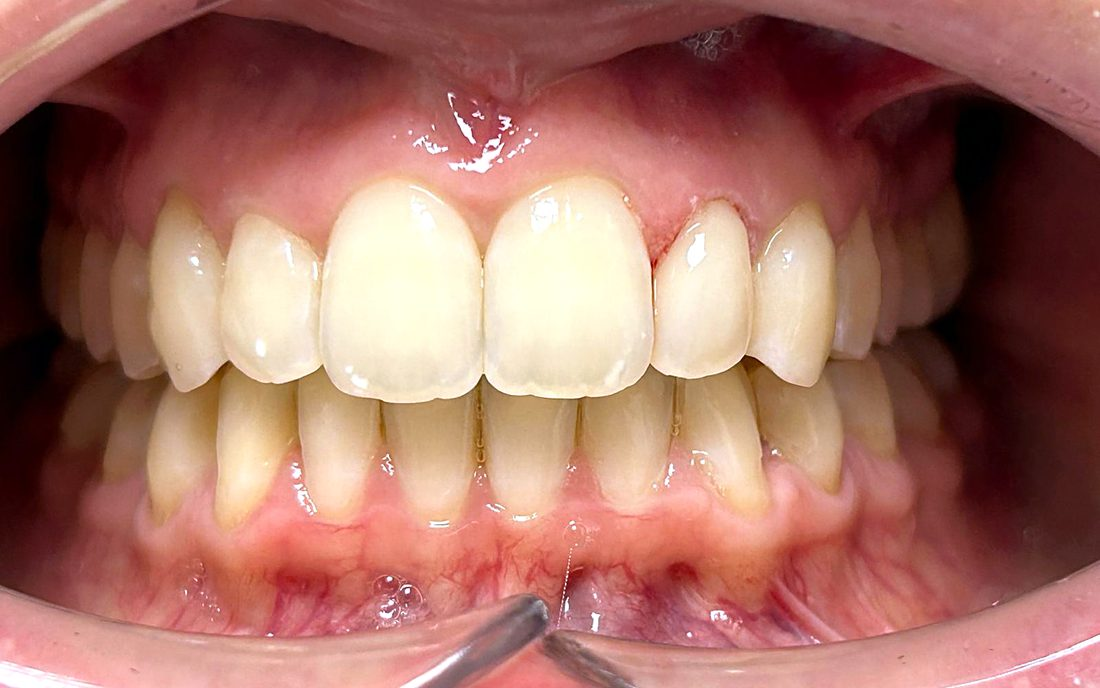
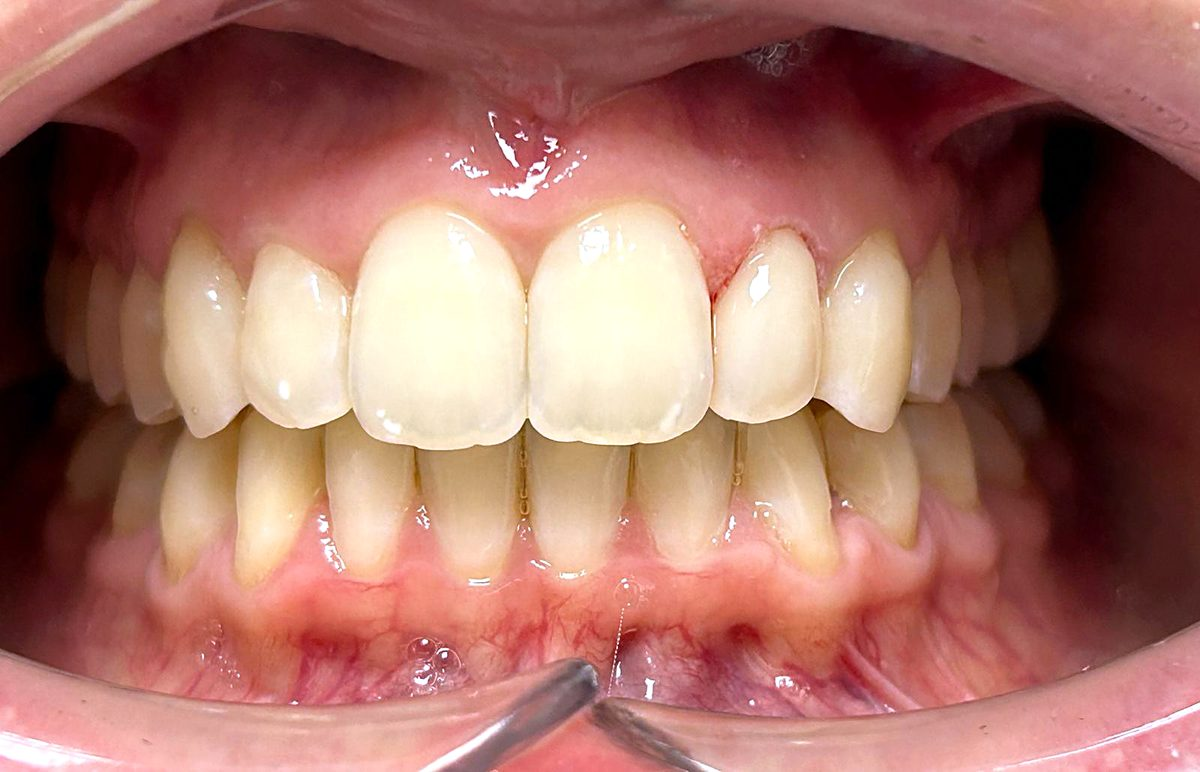
Anteprima: vista frontale con foto complete, senza ritaglio
Claude-Session: https://claude.ai/code/session_01KzjSBKLx6tpywYgDfMFoRN

diff --git a/index.html b/index.html
@@ -842,8 +842,9 @@
   .ba-sorriso .ba-pair{ grid-template-columns: 1fr 1fr !important; gap:6px; }
   @media (max-width: 760px){ .ba-sorriso{ max-width:none; } }
   .ba-more{ margin-top: 40px; text-align:center; }
-  .ba-intere .ba-pair{ aspect-ratio: auto !important; }
-  .ba-intere .ba-pair .ba-img{ aspect-ratio: 1100 / 688 !important; height:auto; }
+  .ba-intere .ba-pair{ aspect-ratio: auto !important; grid-template-columns: 1.399fr 1.554fr !important; align-items:start; }
+  .ba-intere .ba-pair .ba-img{ aspect-ratio: auto !important; height:auto; }
+  .ba-intere .ba-pair .ba-img img{ height:auto !important; object-fit: contain; }
   @media (max-width: 760px){ .ba-intere .ba-pair{ grid-template-columns: 1fr !important; } }
 
   .ba-sub{ display:block; margin-top:4px; font-family:'Public Sans',sans-serif; font-size:0.86rem; color: rgba(247,241,238,0.7); line-height:1.5; }
@@ -1650,8 +1651,8 @@
         </figure>
         <figure class="ba ba-intere">
           <div class="ba-pair" style="--ar:1100/688; --n:2">
-            <div class="ba-img"><img src="casi/frontale-prima.jpg" alt="Denti ricostruiti, vista frontale: prima" loading="lazy" width="1100" height="688"><span class="ba-tag">Prima</span></div>
-            <div class="ba-img"><img src="casi/frontale-dopo.jpg" alt="Denti ricostruiti, vista frontale: dopo" loading="lazy" width="1100" height="688"><span class="ba-tag ba-tag-after">Dopo</span></div>
+            <div class="ba-img"><img src="casi/frontale-prima.jpg" alt="Denti ricostruiti, vista frontale: prima" loading="lazy" width="1200" height="858"><span class="ba-tag">Prima</span></div>
+            <div class="ba-img"><img src="casi/frontale-dopo.jpg" alt="Denti ricostruiti, vista frontale: dopo" loading="lazy" width="1200" height="772"><span class="ba-tag ba-tag-after">Dopo</span></div>
           </div>
           <figcaption>Denti ricostruiti, vista frontale</figcaption>
         </figure>
